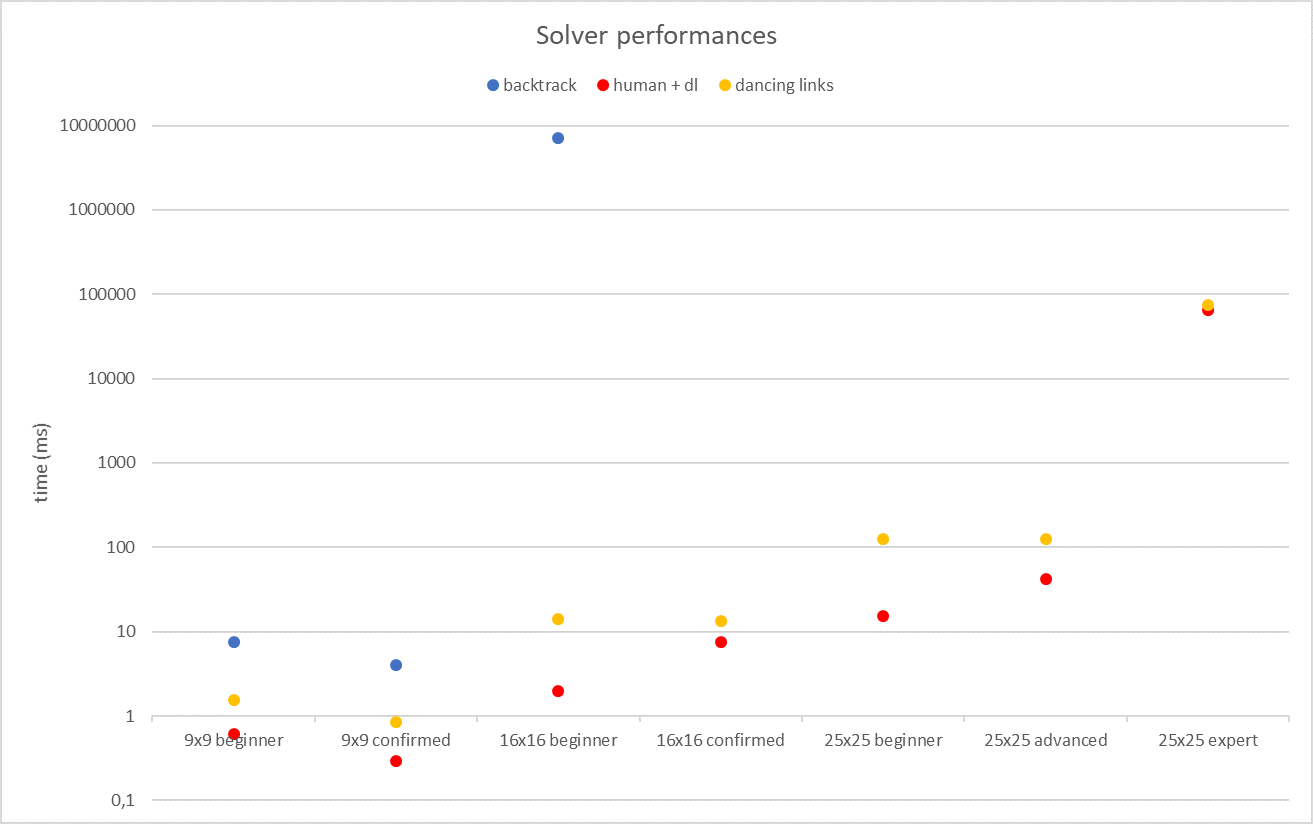
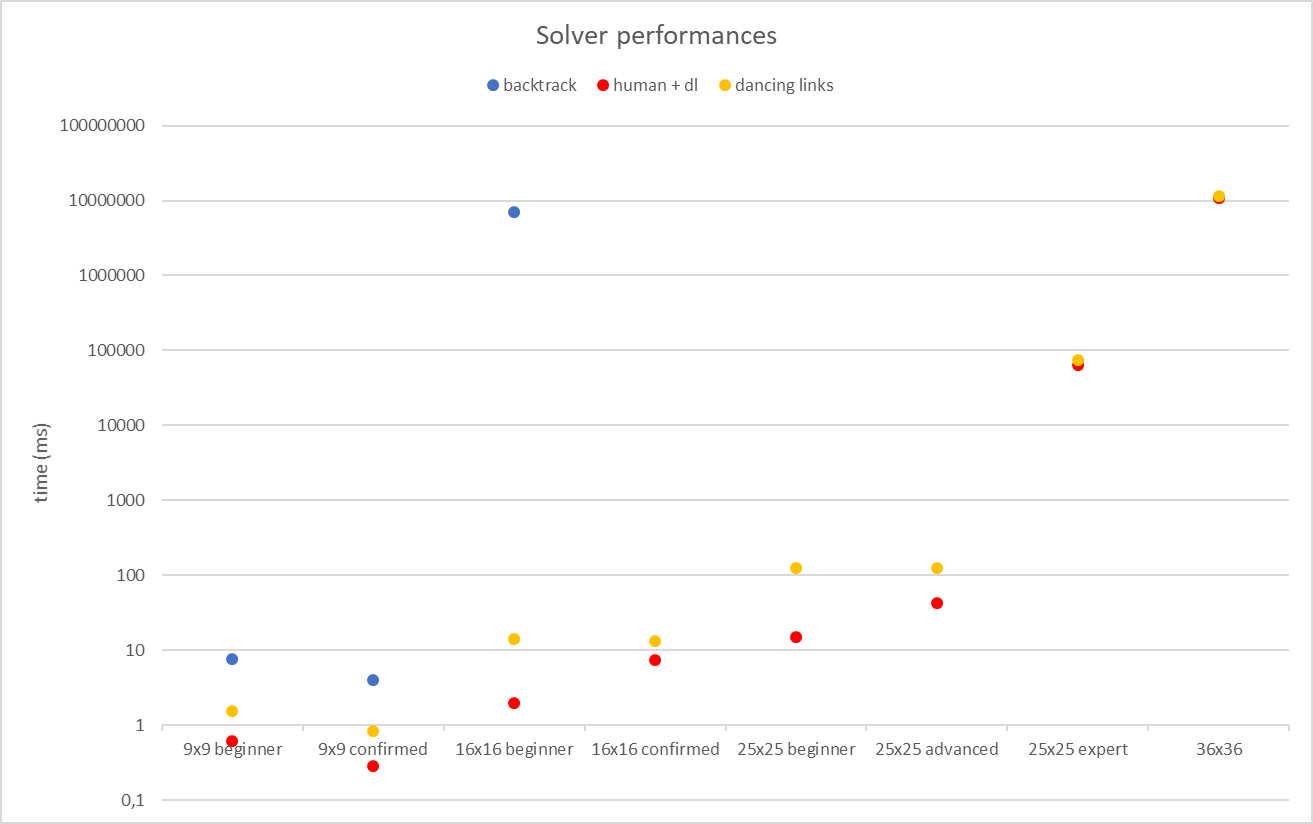
Added performance data for 36x36 sudoku

diff --git a/Dokumentit/testaus.md b/Dokumentit/testaus.md
@@ -4,20 +4,22 @@ Testaus on suoritettu yksikkötestaamalla ja vertailemalla algoritmien nopeuksia
 
 ## Algoritmien nopeuksien vertailua
 
-Algoritmien nopeuksia verailtiin ratkaisemalla eri kokoisia ja vaikeuksisia sudokuita. Nopeudet on saatu ottamalla keskiarvo useammasta ratkaisusta. Pienemmillä sudokuilla 9x9 ja 16x16 (paitsi backtrack) on käytetty sadan ratkaisun keskiarvoa. Suuremmilla syötteillä tulos on yhden (backtrack) tai muutaman suorituksen (dancing links) keskiarvo. Dancing links algoritmilla yritettiin ratkaista 36x36 sudokua, mutta se ei ratkennut järjellisessä ajassa.
+Algoritmien nopeuksia verailtiin ratkaisemalla eri kokoisia ja vaikeuksisia sudokuita. Nopeudet on saatu ottamalla keskiarvo useammasta ratkaisusta. Pienemmillä sudokuilla 9x9 ja 16x16 (paitsi backtrack) on käytetty sadan ratkaisun keskiarvoa. Suuremmilla syötteillä tulos on yhden (backtrack) tai kymmenen suorituksen (dancing links) keskiarvo. 36x36 sudokulla tulos on yhden ratkaisun kesto.
 
 Algoritmeista nopein oli ihmisratkaisija. Ratkaisua voidaan jatkaa joko backtrack- tai dancing links -algoritmilla. Yleiskäyttöisin on ihmisratkaisija yhdistettynä dancing links -algoritmiin. Nopeusero suhteessa pelkkään dancing links -algoritmiin riippuu siitä kuinka pitkälle ihmisratkaisija pääsee. Backtrack hidastuu merkittävästi kun ongelman koko kasvaa, eikä se ole enää järkevä vaihtoehto edes 16x16 sudokuissa.
 
+Dancing links algoritmissa tehty optimointi on toimivaa. Vaikka dancing links ja backtrack algoritmeilla on sama pahimman tapauksen aikavaativuus, on dancing links käytännössä huomattavasti nopeampi. Kuten alla olevasta kuvaajasta nähdään, vie 16x16 sudokun ratkaiseminen backtrack algoritmilla lähes saman verran aikaa kuin 36x36 sudokun ratkaiseminen dancing links algoritmilla. 36x36 sudoku on noin 10^1700 kertaa vaativampi ratkaistava kuin 16x16 sudoku tai noin 10^1350 kertaa vaativampi, jos oletetaan että ratkaistava sudoku sisältää 21 % numeroista valmiina. Oletus pohjautuu siihen, että 9x9 sudokussa täytyy olla vähintään 17 vihjettä, jotta sillä voi olla yksikäsitteinen ratkaisu.
+
 ![Performance graph](https://github.com/tuomasmk/SudokuSolver/blob/master/Dokumentit/solver_performances.png "Performance graph")
 
-Algoritmi \ Aika(ms) | 9x9       |  16x16    | 25x25 (helppo) | 25x25 (vaikea)
---------------- | -------------- | --------- | -------------- | --------------
-Ihmis + dl      | 6 * 10^-2      | 2         | 15             | 6,4 * 10^4
-Ihmis + bt      | 5 * 10^-2      | 2         | 15             | -
-Backtrack       | 5 * 10^-2      | 7 * 10^6  | -              | -
-+vaihtoehto     | 8 * 10^-2      | 4 * 10^6  | -              | -
-Reference graph | 9 * 10^-2      | 10 * 10^6 | -              | -
-Dancing Links   | 5 * 10^-2      | 14        | 125            | 7,4 * 10^4
+Algoritmi \ Aika(ms) | 9x9       |  16x16    | 25x25 (helppo) | 25x25 (vaikea) | 36x36
+--------------- | -------------- | --------- | -------------- | -------------- | -----
+Ihmis + dl      | 6 * 10^-2      | 2         | 15             | 6,4 * 10^4     | 10,7 * 10^6
+Ihmis + bt      | 5 * 10^-2      | 2         | 15             | -              | -
+Backtrack       | 5 * 10^-2      | 7 * 10^6  | -              | -              | -
++vaihtoehto     | 8 * 10^-2      | 4 * 10^6  | -              | -              | -
+Reference graph | 9 * 10^-2      | 10 * 10^6 | -              | -              | -
+Dancing Links   | 5 * 10^-2      | 14        | 125            | 7,4 * 10^4     | 11,3 * 10^6
 
 Main luokka sisältää testaukseen soveltuvia metodeja. Tällöin ohjelmaa pitää ajaa kehitysympäristöstä.
 
